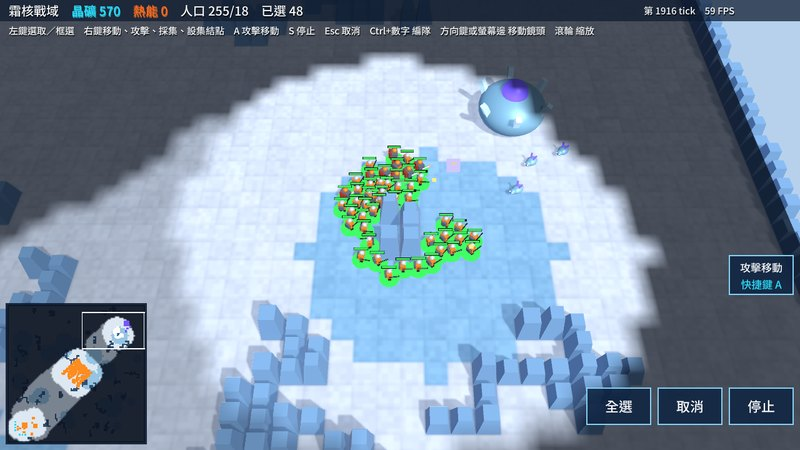
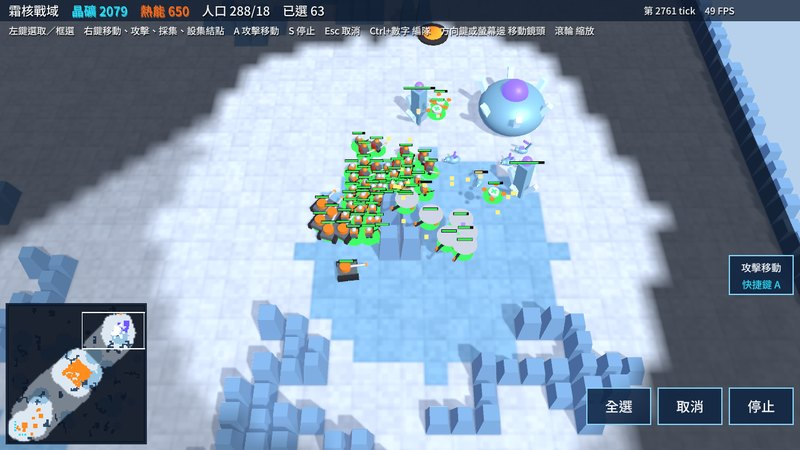
霜核戰域更新到第四階段（完整兵種與科技）

diff --git a/index.html b/index.html
@@ -128,12 +128,12 @@
 
 <main>
   <article class="card">
-    <div class="thumb"><img src="img/frostcore.jpg" alt="霜核戰域遊戲畫面：一群橘色的冰原步兵和噴焰兵攻進冰裔基地，頭上有綠色血條，前方是巨大的冰球狀霜核巢，四周被戰爭迷霧包圍" loading="lazy"><span class="badge">NEW</span></div>
+    <div class="thumb"><img src="img/frostcore.jpg" alt="霜核戰域遊戲畫面：步兵、坦克、旋翼砲艇和醫療無人機攻進冰裔基地，頭上有血條，前方是巨大的冰球狀霜核巢和兩座冰刺柱，四周被戰爭迷霧包圍" loading="lazy"><span class="badge">NEW</span></div>
     <div class="body">
       <div class="name"><h2>霜核戰域</h2><span>Frostcore</span></div>
-      <p class="desc">原創 3D 科幻即時戰略遊戲（Unity 製作，開發中）。冰封行星「霜核」的地心有一顆還在發熱的核心，鑽井公司和冰裔在冰原上爭奪熱泉與晶礦。目前做到第三階段「開打」：鑽探工採晶礦，蓋宿舍艙、兵營、熱泉幫浦，生產冰原步兵和專剋冰裔的噴焰兵。冰裔會從 2 分 30 秒起一波一波派霜爪獸來攻，守住之後帶兵穿過戰爭迷霧，拆掉對角的霜核巢就獲勝。真正的電腦對手、科技和音效還沒做，之後陸續加上。</p>
-      <div class="chips"><span class="chip">即時戰略</span><span class="chip">3D</span><span class="chip">開發中</span><span class="chip">採集建造</span><span class="chip">戰鬥相剋</span><span class="chip">戰爭迷霧</span><span class="chip">框選編隊</span><span class="chip">手機平板可玩</span></div>
-      <div class="keys">電腦：左鍵選取／框選・右鍵移動、攻擊、採集、設集結點・A 攻擊移動・選鑽探工按建築按鈕再點位置・S 停止・Esc 取消・Ctrl+數字 編隊・方向鍵或滑鼠推到螢幕邊移動鏡頭・滾輪縮放　手機平板：點單位或建築選取・拖曳框選・點地面或敵人下指令・「攻擊移動」按鈕・兩指拖曳移動鏡頭・兩指開合縮放（第一次載入約 20 MB）</div>
+      <p class="desc">原創 3D 科幻即時戰略遊戲（Unity 製作，開發中）。冰封行星「霜核」的地心有一顆還在發熱的核心，鑽井公司和冰裔在冰原上爭奪熱泉與晶礦。目前做到第四階段：採晶礦與熱能，蓋八種建築（含會自己開火的供熱塔），生產步兵、噴焰兵、偵察車、坦克、旋翼砲艇和醫療無人機，研發武器、裝甲與興奮劑等六項科技。冰裔從 2 分 30 秒起一波一波來攻，後期還有會飛的冰翼；守住之後帶兵穿過戰爭迷霧，拆掉對角的霜核巢就獲勝。真正的電腦對手和音效還沒做，之後陸續加上。</p>
+      <div class="chips"><span class="chip">即時戰略</span><span class="chip">3D</span><span class="chip">開發中</span><span class="chip">採集建造</span><span class="chip">7 種單位</span><span class="chip">6 項科技</span><span class="chip">空中單位</span><span class="chip">戰爭迷霧</span><span class="chip">框選編隊</span><span class="chip">手機平板可玩</span></div>
+      <div class="keys">電腦：左鍵選取／框選・右鍵移動、攻擊、採集、設集結點・A 攻擊移動・T 興奮劑・選鑽探工按建築按鈕再點位置・S 停止・Esc 取消・Ctrl+數字 編隊・方向鍵或滑鼠推到螢幕邊移動鏡頭・滾輪縮放　手機平板：點單位或建築選取・拖曳框選・點地面或敵人下指令・「攻擊移動」按鈕・兩指拖曳移動鏡頭・兩指開合縮放（第一次載入約 20 MB）</div>
       <a class="play" href="https://kevinchang0531.github.io/frostcore/">開始玩 ▶</a>
     </div>
   </article>
